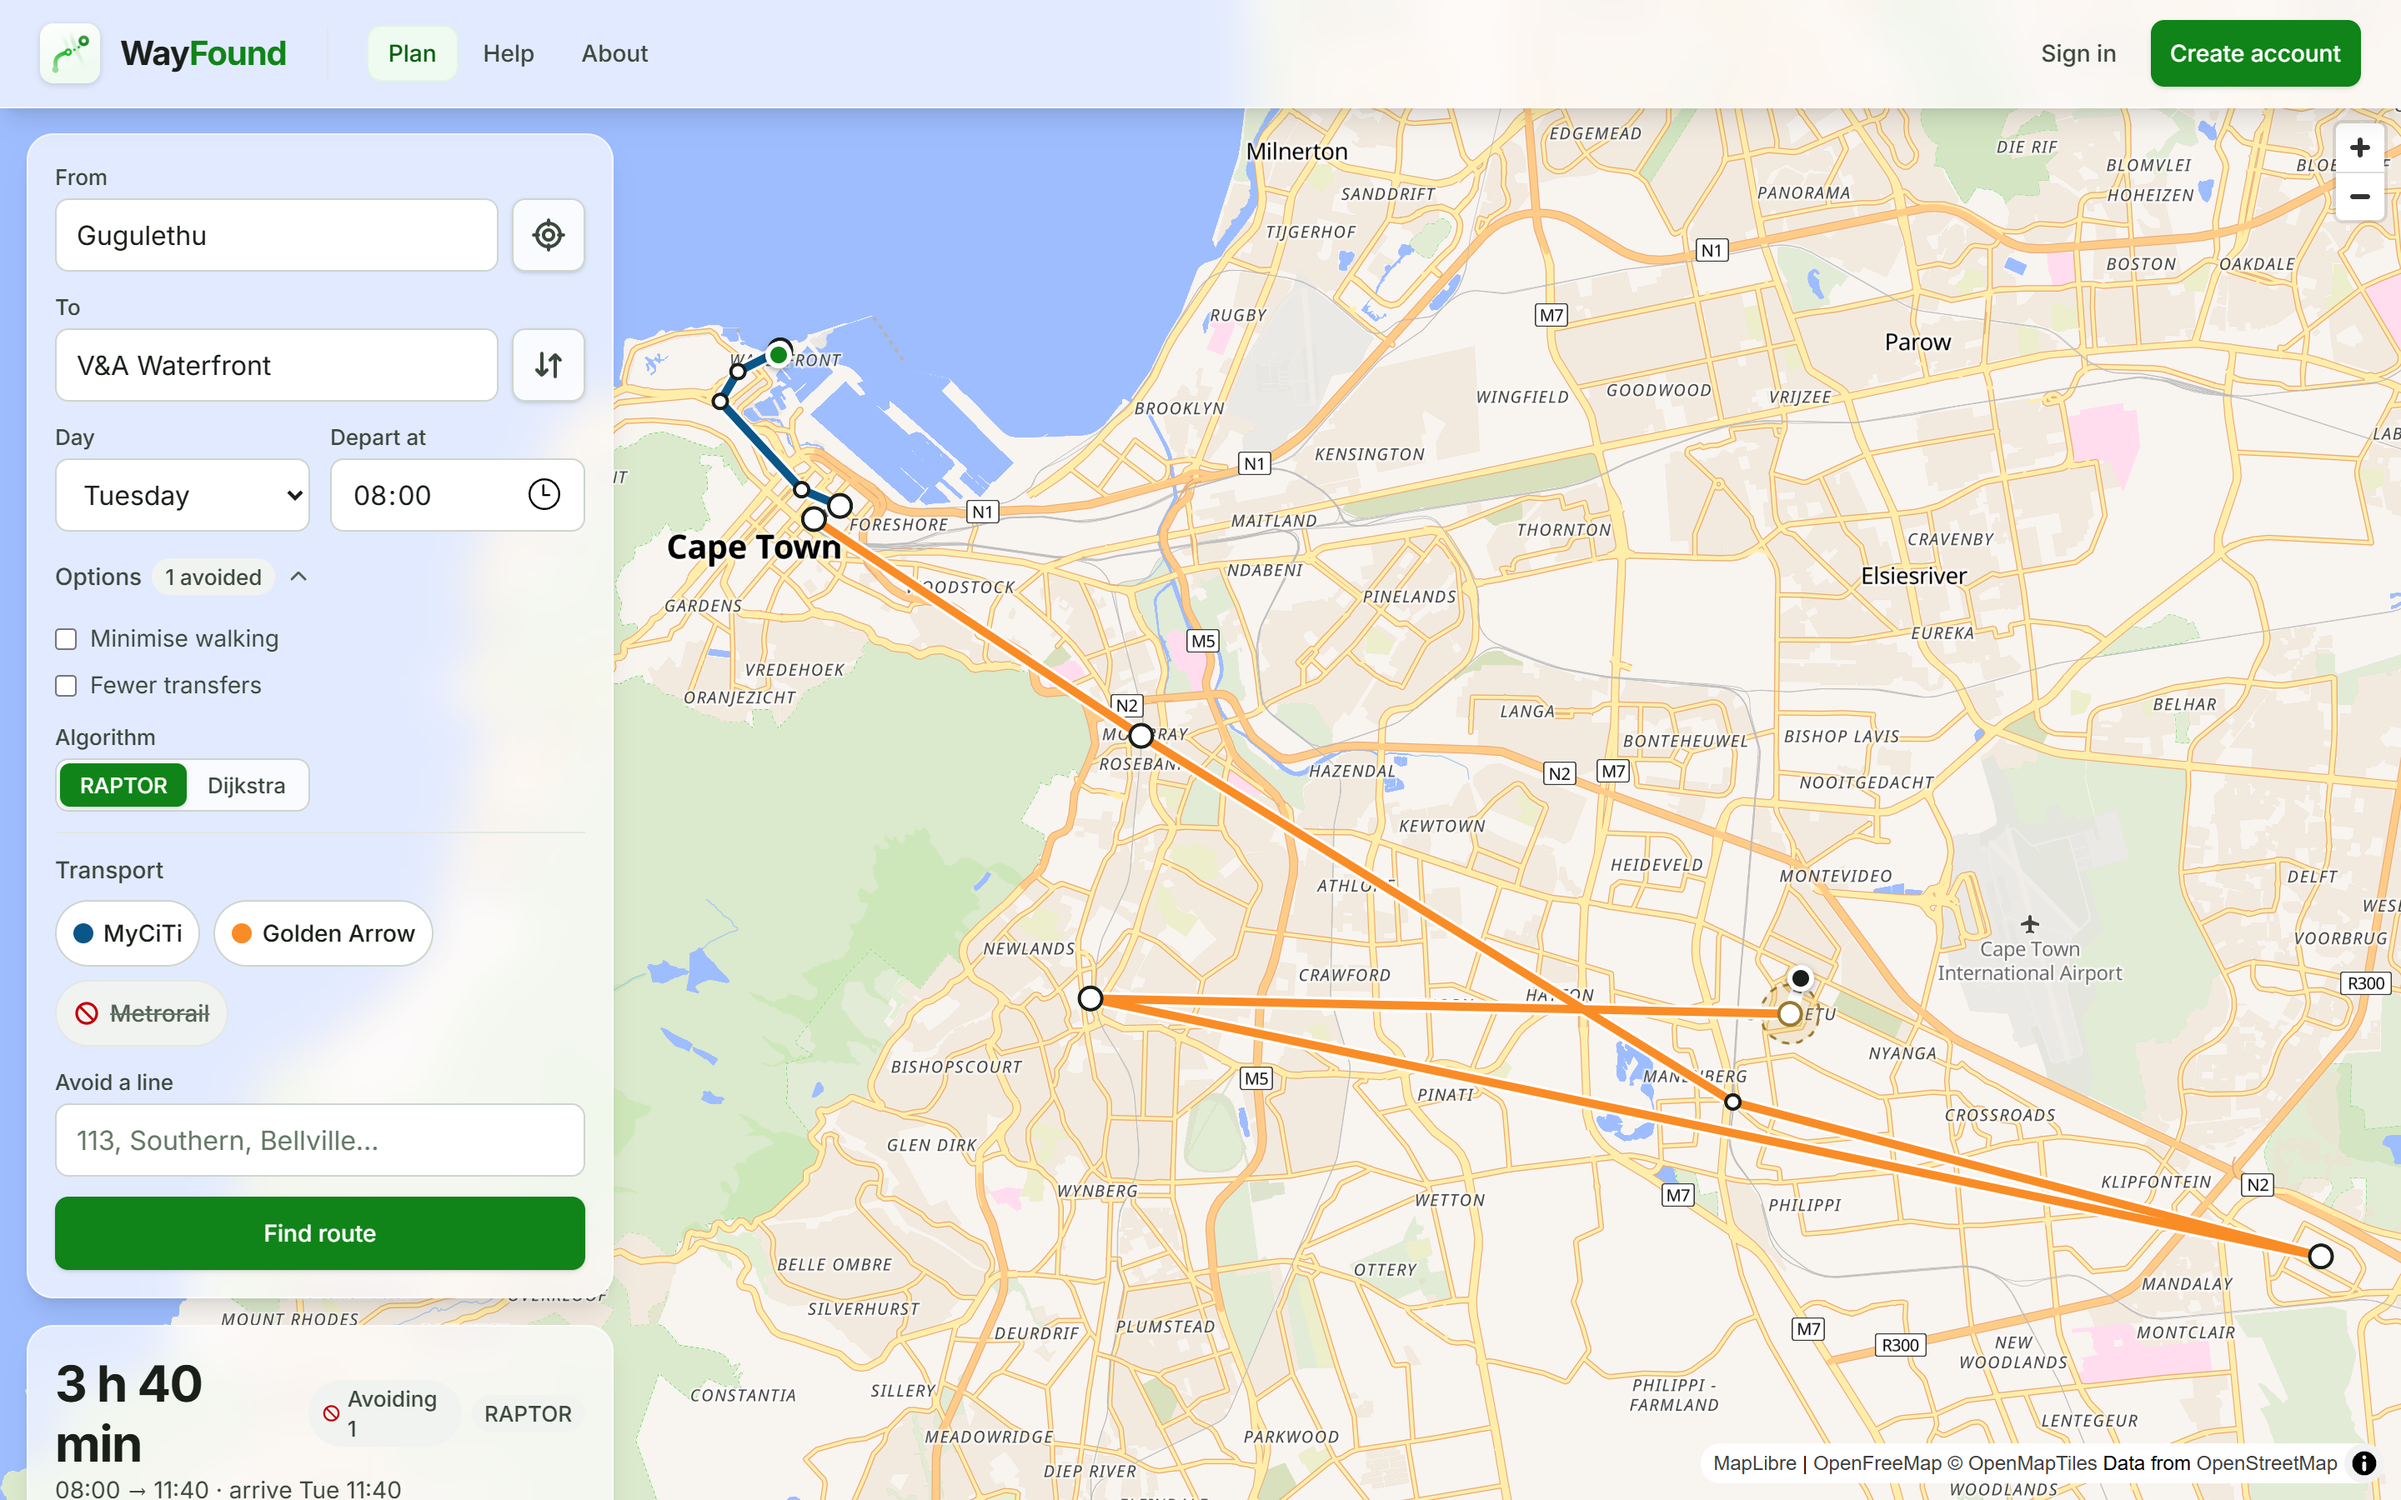
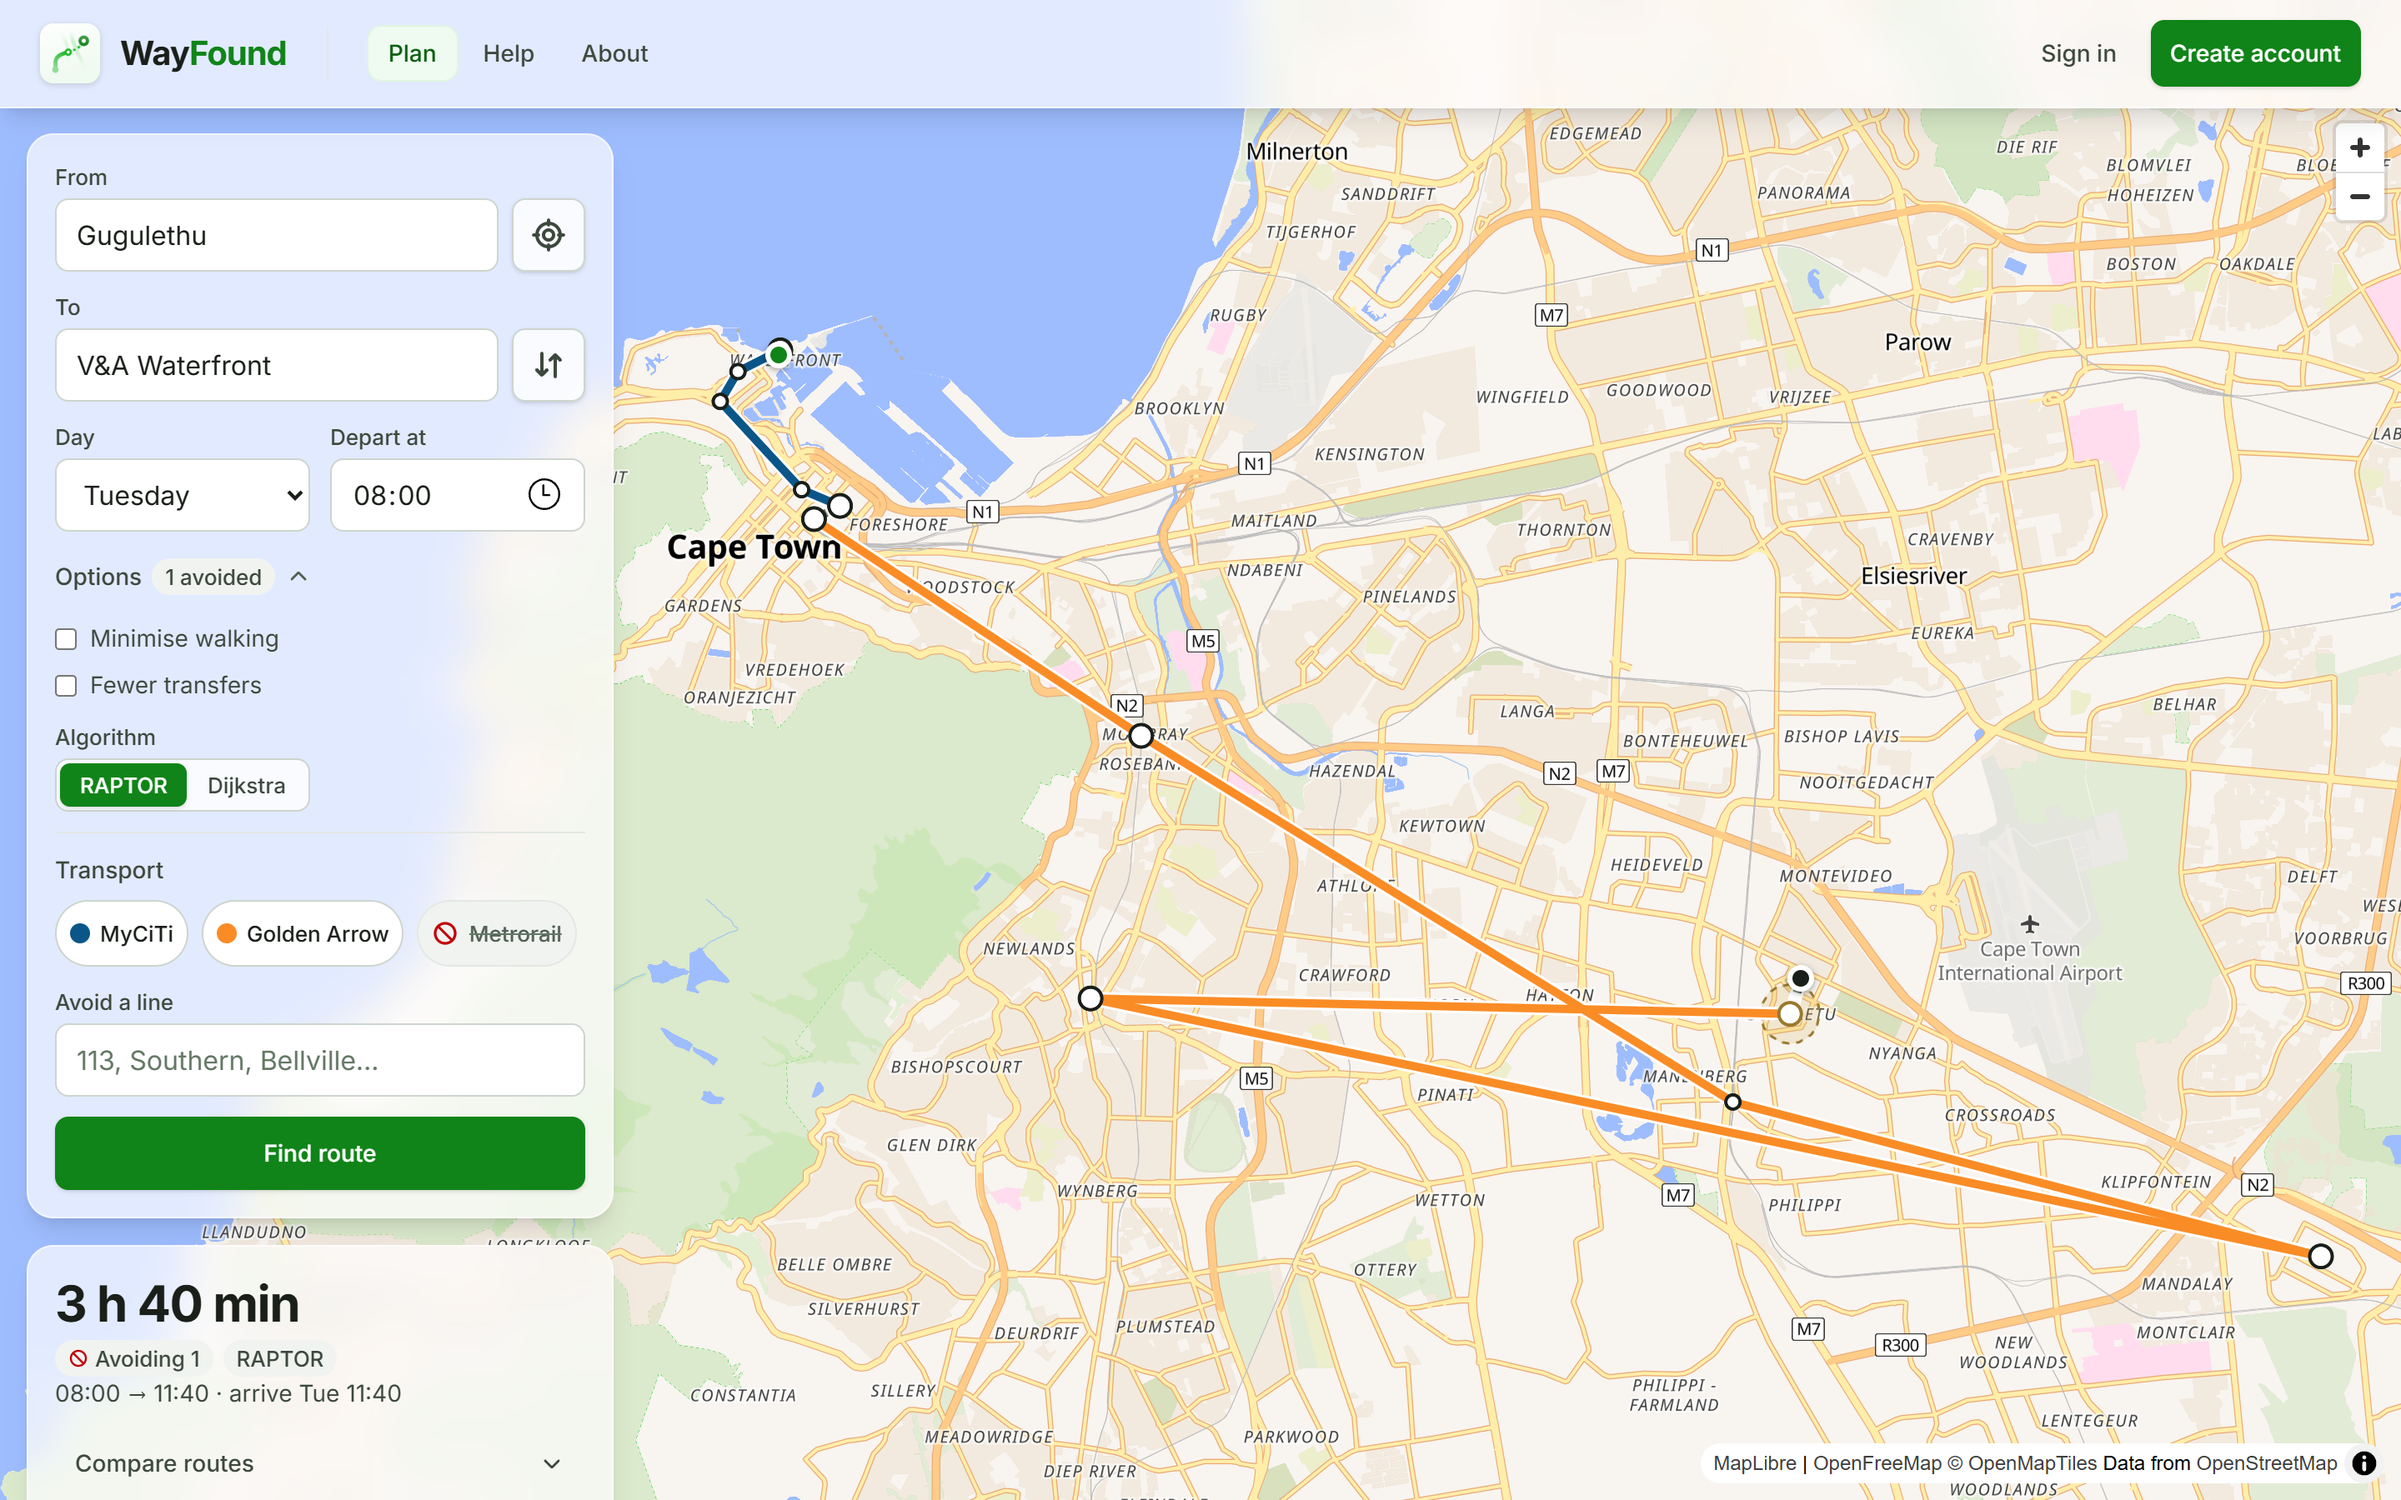
avoid transport: operator chips fit on one row, headline no longer wraps next to the avoiding chip

Changed region(s): [[0.0, 0.5911, 0.2812, 1.0]]

diff --git a/src/frontend/src/components/JourneyResults.jsx b/src/frontend/src/components/JourneyResults.jsx
@@ -100,11 +100,11 @@ export function TripHeadline({ journey }) {
     const { summary, arrival, departure, algorithm } = journey;
     return (
         <div>
-            <div className="flex items-center justify-between gap-2">
-                <p className="text-3xl font-bold tracking-tight text-mist-900">{formatDuration(summary.duration)}</p>
+            <div className="flex flex-wrap items-center justify-between gap-x-2 gap-y-1">
+                <p className="whitespace-nowrap text-3xl font-bold tracking-tight text-mist-900">{formatDuration(summary.duration)}</p>
                 <span className="flex items-center gap-1.5">
                     {journey.avoiding > 0 && (
-                        <span className="flex items-center gap-1 rounded-full bg-mist-100 px-2 py-0.5 text-xs font-medium text-mist-700" title={journey.avoidingNames}>
+                        <span className="flex items-center gap-1 whitespace-nowrap rounded-full bg-mist-100 px-2 py-0.5 text-xs font-medium text-mist-700" title={journey.avoidingNames}>
                             <BanIcon className="h-3 w-3 text-red-700" />
                             Avoiding {journey.avoiding}
                         </span>

diff --git a/src/frontend/src/components/AvoidTransport.jsx b/src/frontend/src/components/AvoidTransport.jsx
@@ -15,7 +15,7 @@ function ModeChip({ operator, avoided, onToggle }) {
             aria-checked={!avoided}
             aria-label={`Use ${operator.label}`}
             onClick={onToggle}
-            className={`group flex min-h-10 items-center gap-1.5 rounded-full border px-2.5 text-sm font-medium transition-[background-color,border-color,color,opacity] duration-[var(--duration-base)] ease-[var(--ease-out-soft)] focus:outline-none focus-visible:ring-2 focus-visible:ring-brand-700/40 enabled:active:scale-[0.97] ${
+            className={`group flex min-h-10 items-center gap-1.5 whitespace-nowrap rounded-full border px-2 text-[13px] font-medium transition-[background-color,border-color,color,opacity] duration-[var(--duration-base)] ease-[var(--ease-out-soft)] focus:outline-none focus-visible:ring-2 focus-visible:ring-brand-700/40 enabled:active:scale-[0.97] ${
                 avoided ? "border-mist-200 bg-mist-100 text-mist-600" : "border-mist-300 bg-white text-mist-900 hover:border-mist-400"
             }`}
         >
